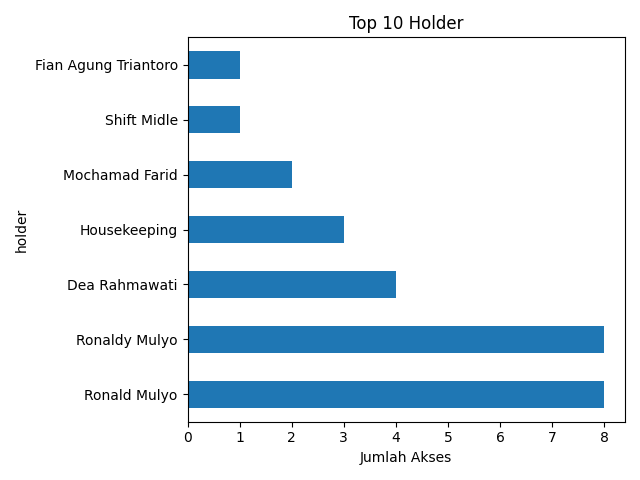
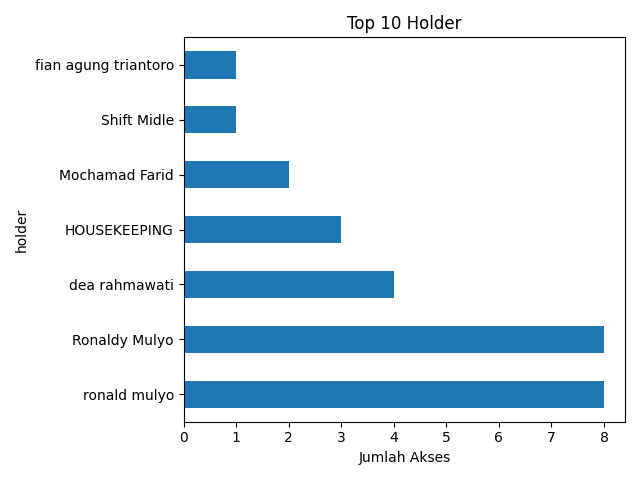
refactor: remove holder name normalization for consistent raw data use

diff --git a/gandekan102_csv.py b/gandekan102_csv.py
@@ -22,10 +22,6 @@ df['time'] = pd.to_datetime(df['time'], dayfirst=True, errors='coerce')
 df['tanggal'] = df['time'].dt.date
 df['jam'] = df['time'].dt.hour
 
-# 7. Normalisasi penulisan nama holder (huruf kecil semua lalu kapital di awal kata)
-df['holder'] = df['holder'].str.strip().str.lower()
-df['holder'] = df['holder'].str.title()
-
 # 8. Statistik dasar
 print("Jumlah baris setelah cleaning:", len(df))
 print("Total log:", len(df))
